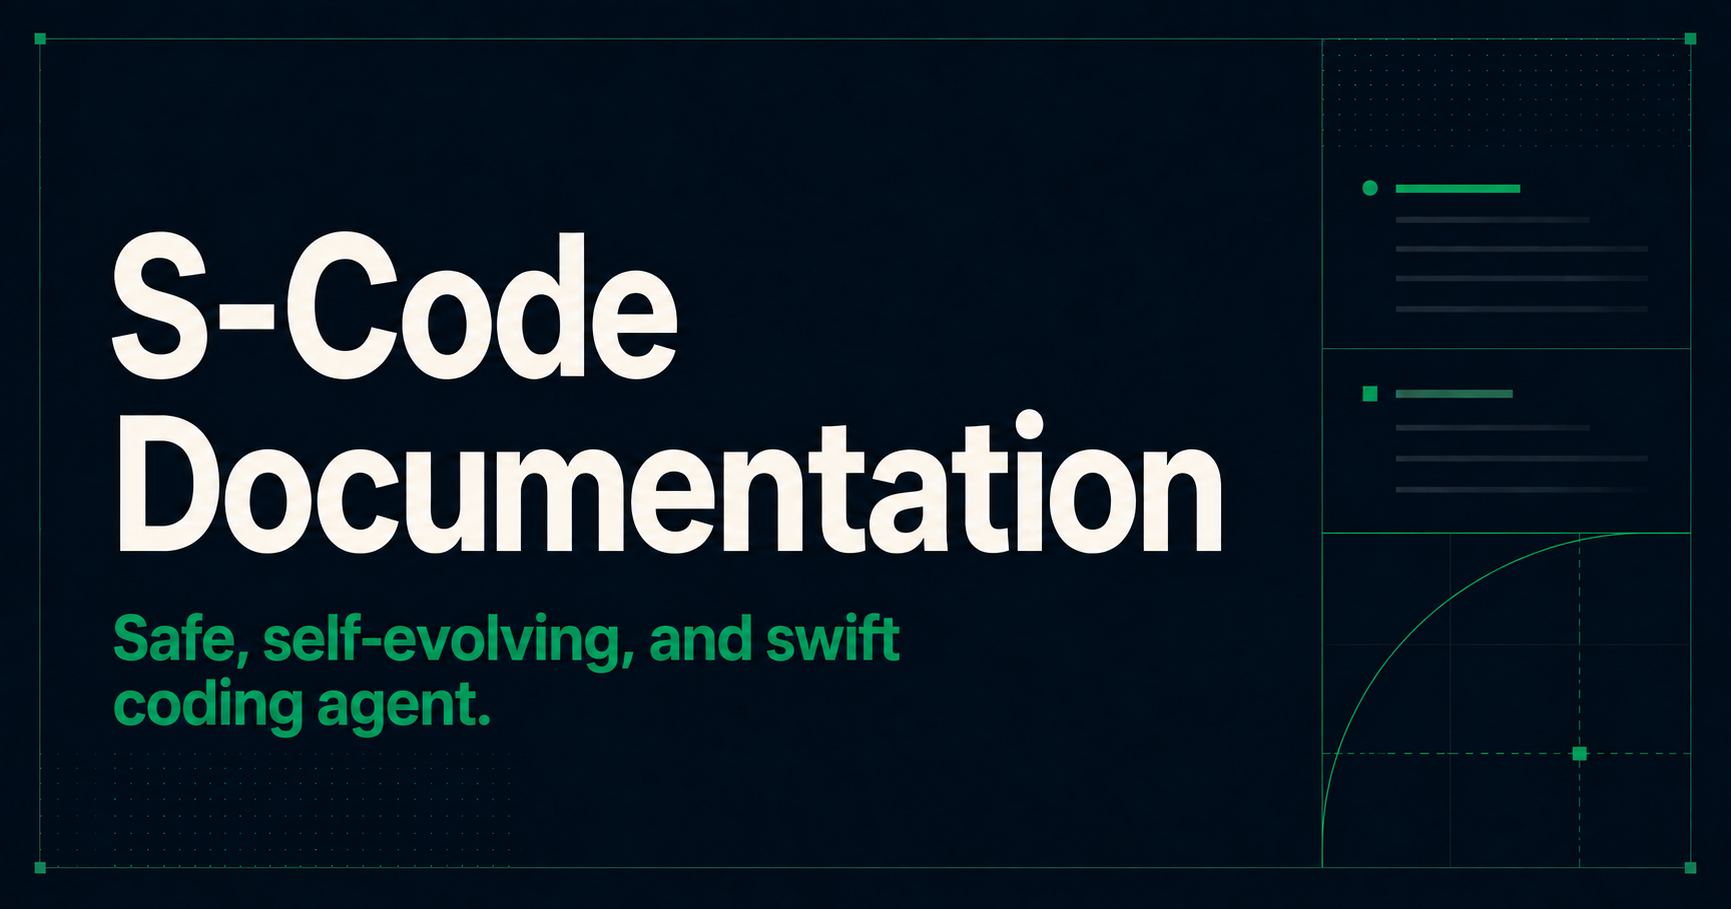
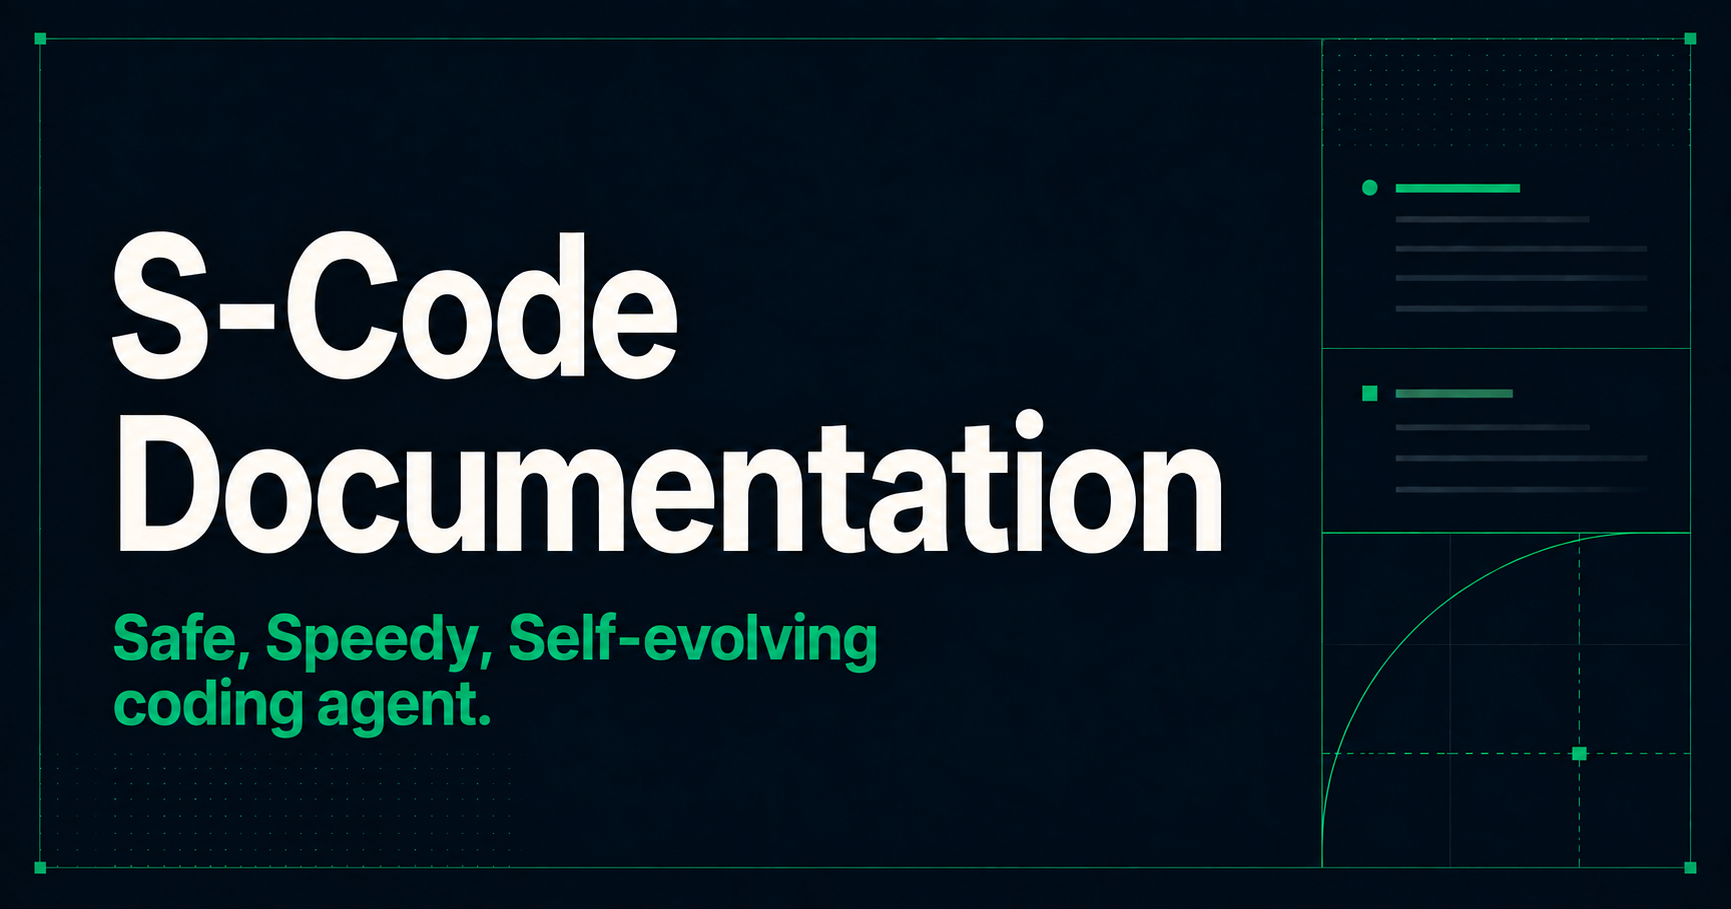
docs: unify Safe, Speedy, Self-evolving brand keywords

diff --git a/docs-site/app/layout.tsx b/docs-site/app/layout.tsx
@@ -2,7 +2,7 @@ import type { Metadata } from 'next';
 import './globals.css';
 
 const siteUrl = new URL('https://sai-foundation.github.io/s-code-docs/');
-const description = 'S-Code: Safe, self-evolving, and swift coding agent. Guides for your terminal and browser.';
+const description = 'S-Code: Safe, Speedy, Self-evolving coding agent. Guides for your terminal and browser.';
 
 export const metadata: Metadata = {
   metadataBase: siteUrl,
@@ -18,7 +18,7 @@ export const metadata: Metadata = {
     title: 'S-Code Documentation',
     description,
     siteName: 'S-Code Docs',
-    images: [{ url: '/og.png', width: 1731, height: 909, alt: 'S-Code Docs — Safe, self-evolving, and swift coding agent.' }],
+    images: [{ url: '/og.png', width: 1731, height: 909, alt: 'S-Code Docs — Safe, Speedy, Self-evolving coding agent.' }],
   },
   twitter: {
     card: 'summary_large_image',

diff --git a/docs-site/app/page.tsx b/docs-site/app/page.tsx
@@ -49,7 +49,7 @@ export default function Home() {
                 S-Code · Developer Preview
               </div>
               <h1 className="max-w-4xl text-balance text-[clamp(2.8rem,7vw,6.5rem)] font-semibold leading-[0.93] tracking-[-0.065em]">
-                Safe, self-evolving,<br />and swift coding agent.
+                Safe, Speedy,<br />Self-evolving coding agent.
               </h1>
               <p className="mt-7 max-w-2xl text-pretty text-lg leading-8 text-muted-foreground sm:text-xl">
                 Create, edit, and test code in your terminal or browser, with guarded file changes, reusable project experience, and efficient tool execution.

diff --git a/README.md b/README.md
@@ -2,9 +2,9 @@
 
 # S-Code
 
-<img src="assets/s-code-teaser.png" width="960" alt="S-Code — Safe. Self-evolving. Swift." />
+<img src="assets/s-code-teaser.png" width="960" alt="S-Code — Safe, Speedy, Self-evolving" />
 
-**Safe, self-evolving, and swift coding agent.**<br>
+**Safe, Speedy, Self-evolving coding agent.**<br>
 For your terminal and browser.<br>
 **Protect credentials. Reuse context. Cut repeated work.**
 
@@ -113,8 +113,8 @@ to preserve your existing history.
 | Principle | What the Preview delivers |
 | --- | --- |
 | **Safe** | Keep sensitive files out of built-in tools and command writes inside your workspace. [Compare the protections →](#privacy-and-control) |
+| **Speedy** | Precise file operations and bounded history reduce repeated work. Terminal and browser share the same running agent service. [See the mechanisms →](#efficiency-and-evidence) |
 | **Self-evolving** | Task feedback, memory you explicitly save for later sessions, and repeatable evaluations. [See what exists today →](#feedback-and-memory) |
-| **Swift** | Precise file operations and bounded history reduce repeated work. Terminal and browser share the same running agent service. [See the mechanisms →](#efficiency-and-evidence) |
 
 ### Feedback and memory
 

diff --git a/docs-site/content/README.md b/docs-site/content/README.md
@@ -5,7 +5,7 @@ title: Introduction to S-Code
 short_title: Introduction
 group: Start here
 order: 10
-description: Safe, self-evolving, and swift coding agent.
+description: Safe, Speedy, Self-evolving coding agent.
 keywords:
   - overview
   - s-code
@@ -15,7 +15,7 @@ keywords:
 
 # Introduction to S-Code
 
-S-Code is a safe, self-evolving, and swift coding agent for your terminal and
+S-Code is a Safe, Speedy, Self-evolving coding agent for your terminal and
 browser, licensed under Apache-2.0. Both interfaces share a local service for model calls, tools,
 permissions and session history.
 

diff --git a/docs/README.md b/docs/README.md
@@ -5,7 +5,7 @@ title: Introduction to S-Code
 short_title: Introduction
 group: Start here
 order: 10
-description: Safe, self-evolving, and swift coding agent.
+description: Safe, Speedy, Self-evolving coding agent.
 keywords:
   - overview
   - s-code
@@ -15,7 +15,7 @@ keywords:
 
 # Introduction to S-Code
 
-S-Code is a safe, self-evolving, and swift coding agent for your terminal and
+S-Code is a Safe, Speedy, Self-evolving coding agent for your terminal and
 browser, licensed under Apache-2.0. Both interfaces share a local service for model calls, tools,
 permissions and session history.
 
